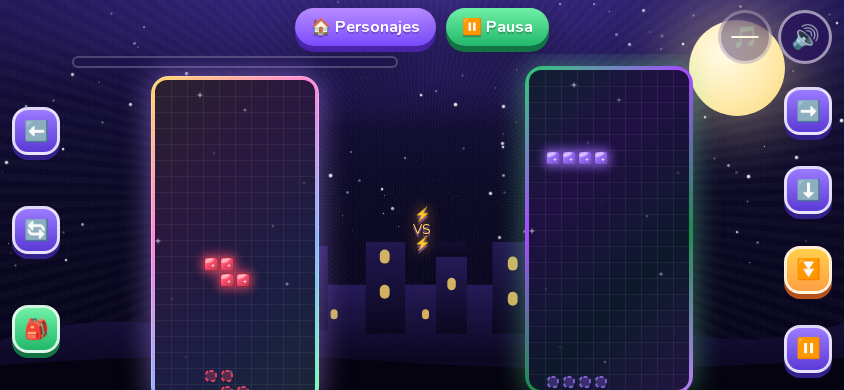
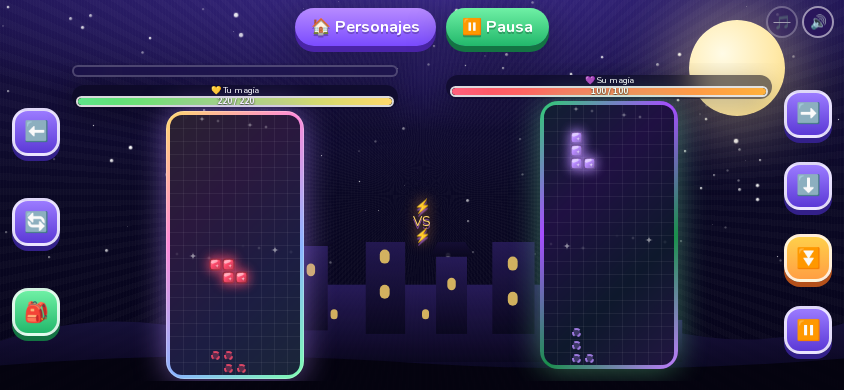
Fix phone-l duel fit, landscape HP strips, and audio button placement
Size boards from viewport height minus topBar and compact HP in phone-l,
clamp frames within innerHeight, move mute/music into topBar band in portrait
and landscape duel, and assert boardFrame bottoms on phone-l.

diff --git a/theme.css b/theme.css
@@ -826,16 +826,31 @@ body[data-layout="phone-p"] #topBar .btn.small {
   padding: 7px 9px;
   white-space: nowrap;
 }
+body[data-layout="phone-p"]:has(#gameScreen.show) #topBar {
+  padding-right: calc(88px + var(--safe-r));
+}
 body[data-layout="phone-p"]:has(#gameScreen.show) #muteBtn,
 body[data-layout="phone-p"]:has(#gameScreen.show) #musicBtn {
-  top: calc(54px + var(--safe-t));
-  width: 38px;
-  height: 38px;
-  font-size: 1rem;
-  z-index: 55;
+  top: calc(6px + var(--safe-t));
+  width: 32px;
+  height: 32px;
+  font-size: 0.85rem;
+  z-index: 70;
+  border-width: 2px;
 }
 body[data-layout="phone-p"]:has(#gameScreen.show) #muteBtn { right: calc(10px + var(--safe-r)); }
-body[data-layout="phone-p"]:has(#gameScreen.show) #musicBtn { right: calc(54px + var(--safe-r)); font-size: 0.95rem; }
+body[data-layout="phone-p"]:has(#gameScreen.show) #musicBtn { right: calc(46px + var(--safe-r)); }
+body[data-layout="phone-l"]:has(#gameScreen.show) #muteBtn,
+body[data-layout="phone-l"]:has(#gameScreen.show) #musicBtn {
+  top: calc(6px + var(--safe-t));
+  width: 32px;
+  height: 32px;
+  font-size: 0.85rem;
+  z-index: 70;
+  border-width: 2px;
+}
+body[data-layout="phone-l"]:has(#gameScreen.show) #musicBtn { right: calc(46px + var(--safe-r)); }
+body[data-layout="phone-l"]:has(#gameScreen.show) #muteBtn { right: calc(10px + var(--safe-r)); }
 
 body[data-layout="phone-p"] #gameScreen #gameWrap {
   display: flex !important;
@@ -1112,9 +1127,72 @@ body[data-layout="phone-l"] .sideWrap.player { grid-area: player; }
 body[data-layout="phone-l"] .vsCol { grid-area: vs; display: block !important; font-size: 0.85rem; }
 body[data-layout="phone-l"] .sideWrap.rival { grid-area: rival; }
 body[data-layout="phone-l"] .touch-edge.right { grid-area: touchR; }
-body[data-layout="phone-l"] .sideWrap .panel { display: none !important; }
-body[data-layout="phone-l"] .sideWrap .sideRow { flex-direction: column; align-items: center; }
 body[data-layout="phone-l"] #gameScreen #touchDock { display: none !important; }
+body[data-layout="phone-l"] #gameScreen #gameWrap {
+  align-items: center;
+  align-self: center;
+  max-height: calc(100dvh - 50px);
+  overflow: hidden;
+  width: 100%;
+  box-sizing: border-box;
+}
+body[data-layout="phone-l"] .sideWrap .sideRow {
+  flex-direction: column;
+  align-items: center;
+  width: 100%;
+  min-width: 0;
+  gap: 2px;
+}
+body[data-layout="phone-l"] .sideWrap .panel {
+  display: flex !important;
+  flex-direction: column;
+  width: 100%;
+  max-width: 100%;
+  padding: 2px 4px !important;
+  gap: 0 !important;
+  border: none !important;
+  background: rgba(8, 6, 28, 0.55) !important;
+  border-radius: var(--radius-sm) !important;
+  box-sizing: border-box;
+}
+body[data-layout="phone-l"] .sideWrap .panel > *:not(.hpWrap) {
+  display: none !important;
+}
+body[data-layout="phone-l"] .sideWrap .panel .hpLabel {
+  font-size: 0.52rem;
+  margin-bottom: 0;
+  line-height: 1;
+}
+body[data-layout="phone-l"] .sideWrap .panel .hpBar {
+  height: 11px;
+}
+body[data-layout="phone-l"] .sideWrap .panel .hpTxt {
+  font-size: 0.55rem;
+}
+body[data-layout="phone-l"] .sideWrap.rival .sideRow .rival-panel {
+  order: -1;
+}
+body[data-layout="phone-l"] .sideWrap.rival .rival-mini {
+  width: 100%;
+  max-width: 100%;
+  flex: 1 1 auto;
+  min-width: 0;
+}
+body[data-layout="phone-l"] .boardStage > .mini.flank {
+  display: none !important;
+}
+body[data-layout="phone-l"] .boardStage {
+  display: flex;
+  justify-content: center;
+  width: 100%;
+}
+body[data-layout="phone-l"] .sideWrap .boardCol {
+  width: 100%;
+  justify-content: center;
+}
+body[data-layout="phone-l"] .sideWrap .boardFrame {
+  max-width: min(100%, 320px);
+}
 
 .glass.side::before {
   content: "";

diff --git a/index.html b/index.html
@@ -618,10 +618,18 @@ function fitBoards(){const mode=document.body.dataset.layout||layoutMode();const
    const anchoLibre=Math.max(0,Math.min(stageW,vw-16)-flank);
    avH=altoLibre;avW=anchoLibre;
   }else{avH=vh-tb-tc-(short?150:165);avW=vw-24;}
- }else if(mode==='phone-l'){avH=vh-tb-12;avW=(vw-150)/2;cellMin=10;cellMax=26;}
- else if(mode==='tablet'){const pw=200;avH=vh-tb-tc-20;avW=(vw-2*pw-90)/2;cellMin=12;cellMax=30;}
+ }else if(mode==='phone-l'){
+  const margin=14;
+  const inGame=document.getElementById('gameScreen')?.classList.contains('show');
+  const hpH=inGame?(document.querySelector('.sideWrap.player .player-panel')?.offsetHeight||24):24;
+  avH=vh-tb-margin-hpH;cellMin=8;cellMax=Math.max(8,Math.floor(avH/ROWS));
+  const touch=document.querySelectorAll('#gameWrap .touch-edge');
+  let touchW=112;touch.forEach(el=>{touchW+=el.getBoundingClientRect().width||52;});
+  const vsW=36;avW=(vw-touchW-vsW-12)/2;
+ }else if(mode==='tablet'){const pw=200;avH=vh-tb-tc-20;avW=(vw-2*pw-90)/2;cellMin=12;cellMax=30;}
  else{const pw=document.querySelector('#gameScreen .panel')?.offsetWidth||200;avH=vh-tb-24;avW=(vw-2*pw-100)/2;cellMin=14;cellMax=34;}
- if(mode!=='phone-p'){avH=Math.max(avH,vh*.35);avW=Math.max(avW,vw*.2);}
+ if(mode==='desktop'||mode==='tablet'){avH=Math.max(avH,vh*.35);avW=Math.max(avW,vw*.2);}
+ else if(mode==='phone-l'){avH=Math.max(0,avH);avW=Math.max(avW,60);}
  else avH=Math.max(0,avH);
  let pCell=Math.max(cellMin,Math.min(cellMax,Math.floor(Math.min(avH/ROWS,avW/COLS))));
  if(mode==='phone-p'&&Game.P?.cv){
@@ -638,7 +646,18 @@ function fitBoards(){const mode=document.body.dataset.layout||layoutMode();const
   if(mode==='phone-p'){const vCell=Math.max(7,Math.min(10,Math.floor(84/COLS)));
    if(Game.P?.cv){Game.P.cv.width=pCell*COLS;Game.P.cv.height=pCell*ROWS;}
    if(Game.V?.cv){Game.V.cv.width=vCell*COLS;Game.V.cv.height=vCell*ROWS;}
-  }else for(const B of [Game.P,Game.V])if(B?.cv){B.cv.width=pCell*COLS;B.cv.height=pCell*ROWS;}}}
+  }else{
+   for(const B of [Game.P,Game.V])if(B?.cv){B.cv.width=pCell*COLS;B.cv.height=pCell*ROWS;}
+   if(mode==='phone-l'&&Game.P?.cv&&innerHeight<500){
+    const limit=innerHeight-6;
+    while(pCell>8){
+     const fb=Game.P.cv.closest('.boardFrame')?.getBoundingClientRect().bottom||0;
+     if(fb<=limit)break;pCell--;
+     for(const B of [Game.P,Game.V])if(B?.cv){B.cv.width=pCell*COLS;B.cv.height=pCell*ROWS;}
+    }
+    CELL=pCell;
+   }
+  }}}
 window.fitBoards=fitBoards;
 function onViewportChange(){fitFx();setLayout();}
 addEventListener('resize',onViewportChange);addEventListener('orientationchange',()=>setTimeout(onViewportChange,120));
